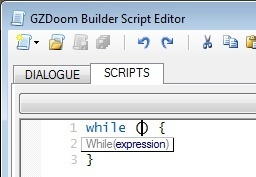
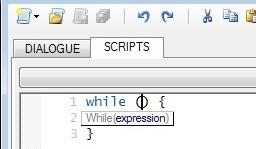
Script Editor: expanding snippet by pressing the Tab key now works only when the text cursor is at the end of a keyword. Updated ZDoom ACC. Updated ZDoom_things.cfg. Updated documentation.

diff --git a/Help/gzdb/features/scripting/snippets.html b/Help/gzdb/features/scripting/snippets.html
@@ -30,11 +30,11 @@
   <p>In the Script Editor you can use and create code snippets, which are small blocks of reusable code that you can insert where you need it in your code.</p>
   <p><strong>Using code snippets:</strong><br />
   To use a snippet,  pick it from the drop-down menu.<br />
-  Alternatively, type the name of a snippet (or place the cursor inside of already existing one), then press the <strong>Tab</strong> key to expand it.<br /><br />
-  <strong>Example:</strong> to create the while loop, type &quot;<strong>while</strong>&quot;...<br /><img src="snippets_expand1.jpg"/><br />
-  <br />...and press the <strong>Tab</strong> key.<br /><img src="snippets_expand2.jpg"/></p>
+  Alternatively, type the name of a snippet (or place the cursor at the end of already existing one), then press the <strong>Tab</strong> key to expand it.<br /><br />
+  <strong>Example:</strong> to create the while loop, type &quot;<strong>while</strong>&quot;, then press the <strong>Tab</strong> key:<br />
+  <img style="padding-right:16px;" src="snippets_expand1.jpg"/><img src="snippets_expand2.jpg"/></p>
   <p><strong>Creating new code snippets:</strong><br />
-  Code snippets are plain text files stored in [GZDB]\Snippets\[category], so just create a new text file there and add the code you want into it.<br />
+  Code snippets are plain text files stored in [GZDB]\Snippets\[category], so just create a new text file there and add the code you want to it.<br />
   There are several special tokens you can use: </p>
   <ul>
     <li><strong>[EP]</strong> (Entry Point) - that's the place where the cursor will be placed after inserting a snippet.</li>

diff --git a/Source/Plugins/BuilderModes/Interface/BridgeModeForm.cs b/Source/Plugins/BuilderModes/Interface/BridgeModeForm.cs
@@ -3,9 +3,10 @@ using System.Windows.Forms;
 using CodeImp.DoomBuilder.BuilderModes.ClassicModes;
 using CodeImp.DoomBuilder.Windows;
 
-namespace CodeImp.DoomBuilder.BuilderModes.Interface {
-
-	internal struct BridgeInterpolationMode {
+namespace CodeImp.DoomBuilder.BuilderModes.Interface 
+{
+	internal struct BridgeInterpolationMode 
+	{
 		public const string BRIGHTNESS_HIGHEST = "Use highest";
 		public const string BRIGHTNESS_LOWEST = "Use lowest";
 
@@ -16,13 +17,13 @@ namespace CodeImp.DoomBuilder.BuilderModes.Interface {
 		public const string OUT_SINE = "EaseOutSine interpolation";
 		public const string IN_OUT_SINE = "EaseInOutSine interpolation";
 
-		public static string[] CEILING_INTERPOLATION_MODES = { LINEAR, HIGHEST, IN_SINE, OUT_SINE, IN_OUT_SINE/*, IN_OUT_CUBIC, OUT_IN_CUBIC*/ };
-		public static string[] FLOOR_INTERPOLATION_MODES = { LINEAR, LOWEST, IN_SINE, OUT_SINE, IN_OUT_SINE/*, IN_OUT_CUBIC, OUT_IN_CUBIC*/ };
-		public static string[] BRIGHTNESS_INTERPOLATION_MODES = { LINEAR, BRIGHTNESS_HIGHEST, BRIGHTNESS_LOWEST };
+		public static readonly string[] CEILING_INTERPOLATION_MODES = { LINEAR, HIGHEST, IN_SINE, OUT_SINE, IN_OUT_SINE/*, IN_OUT_CUBIC, OUT_IN_CUBIC*/ };
+		public static readonly string[] FLOOR_INTERPOLATION_MODES = { LINEAR, LOWEST, IN_SINE, OUT_SINE, IN_OUT_SINE/*, IN_OUT_CUBIC, OUT_IN_CUBIC*/ };
+		public static readonly string[] BRIGHTNESS_INTERPOLATION_MODES = { LINEAR, BRIGHTNESS_HIGHEST, BRIGHTNESS_LOWEST };
 	}
 	
-	public partial class BridgeModeForm : DelayedForm {
-
+	public partial class BridgeModeForm : DelayedForm 
+	{
 		internal int Subdivisions { get { return (int)nudSubdivisions.Value; } set { nudSubdivisions.Value = value; } }
 		internal string FloorAlignMode { get { return (string)cbFloorAlign.SelectedItem; } }
 		internal string CeilingAlignMode { get { return (string)cbCeilingAlign.SelectedItem; } }

diff --git a/Source/Core/Controls/ScriptEditorControl.cs b/Source/Core/Controls/ScriptEditorControl.cs
@@ -827,10 +827,11 @@ namespace CodeImp.DoomBuilder.Controls
 			}
 
 			//mxd. Tab to expand code snippet
+			// Do it only when the text cursor is at the end of a keyword.
 			else if(e.KeyCode == Keys.Tab) 
 			{
 				string curword = GetCurrentWord().ToLowerInvariant();
-				if (scriptconfig.Snippets.ContainsKey(curword)) 
+				if(scriptconfig.Snippets.ContainsKey(curword) && scriptedit.CurrentPos == scriptedit.WordEndPosition(scriptedit.CurrentPos, true))
 				{
 					InsertSnippet(scriptconfig.Snippets[curword]);
 					e.Handled = true;
